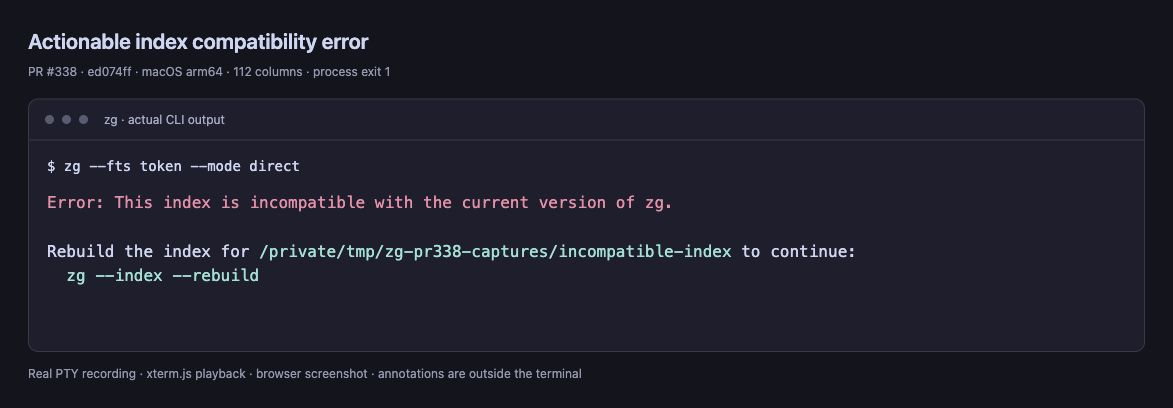
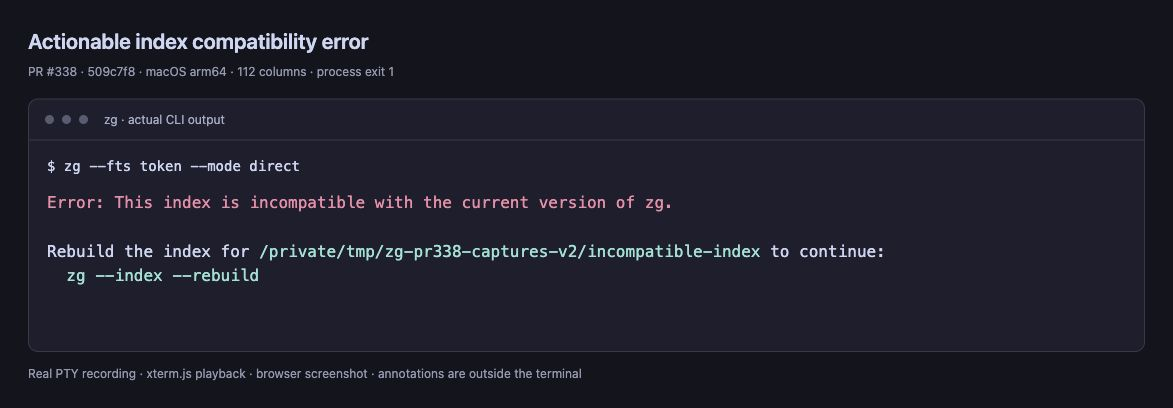
docs: refresh CLI screenshots after color option cleanup

Changed region(s): [[0.4604, 0.5882, 0.7673, 0.6471], [0.0614, 0.1471, 0.3376, 0.2059]]

diff --git a/.github/assets/pr-338/README.md b/.github/assets/pr-338/README.md
@@ -1,8 +1,8 @@
 # PR #338 screenshots
 
-These images illustrate https://github.com/zvec-ai/zvec-grep/pull/338 at CLI revision `ed074ff5ee3940cb628da4883c03731ef2e3cd0f`.
+These images illustrate https://github.com/zvec-ai/zvec-grep/pull/338 at CLI revision `509c7f88bb2305522c5c9431d6c9367496865180`.
 
-The CLI was run on macOS ARM64 in a real 112-column PTY with `TERM=xterm-256color`. Original ANSI output was replayed in xterm.js 5.5.0 and captured with the browser screenshot tool. These are browser screenshots of a terminal replay, not native Terminal application screenshots. Titles, command captions, and provenance notes are outside the terminal. Display height and screenshot bounds were fitted to the output; the CLI text and ANSI stream were not edited.
+The packaged release CLI was run on macOS ARM64 in a real 112-column PTY with `TERM=xterm-256color`. Original ANSI output was replayed in xterm.js 5.5.0 and captured with the browser screenshot tool. These are browser screenshots of a terminal replay, not native Terminal application screenshots. Titles, command captions, and provenance notes are outside the terminal. Display height and screenshot bounds were fitted to the output; the CLI text and ANSI stream were not edited.
 
 The demo workspace contained 1,202 generated files. Indexing used the locally cached `local/potion-code-16m-v2` model and completed successfully. Optimization and saving images are actual intermediate frames from that same run. Static images demonstrate labels and elapsed-time presentation, not animation or performance guarantees. The model picker was cancelled after recording its frame (exit 130). The incompatible-index scenario used an isolated manifest fixture with `indexVersion: 1`.
 
@@ -10,11 +10,11 @@ The image branch is separate from the code PR. Images are linked from the PR usi
 
 | Screenshot | Executed command | JPEG SHA-256 |
 | --- | --- | --- |
[16 lines of base64/hex data omitted]
